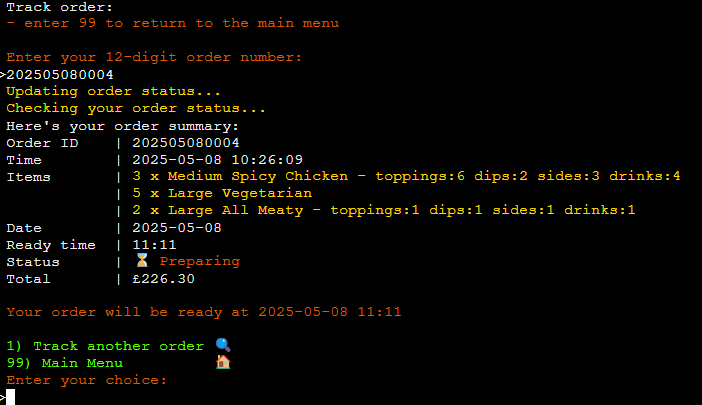
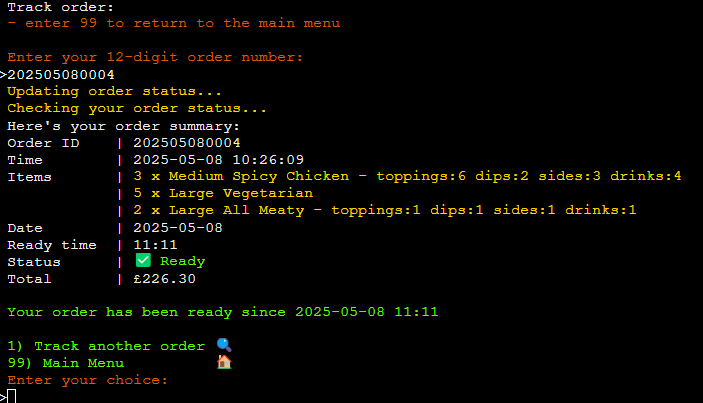
Add track order to features

diff --git a/README.md b/README.md
@@ -22,7 +22,7 @@ PizzaPalace is a command-line_interface (CLI) application for ordering pizza mea
 ## Features 
 
 ### Existing Features
-- **Main menu**
+- **Main menu - **
   <figure>
     <img src="docs/app-screenshots/app-main-menu-order.png" >
     <br>
@@ -178,9 +178,26 @@ PizzaPalace is a command-line_interface (CLI) application for ordering pizza mea
     <figcaption><strong><em>Order Summary - Submit</em></strong></figcaption>
   </figure>
 
-  - **Meal display** - complete order summary is shown including any extra items selected and their quantities for each meal.
+  - **Order summary** - complete order summary is displayed after submission with order number and ready time.
   - **Press Enter** - to return to Main Menue.
 
+- **Main Menu - Track Order**
+  <figure>
+    <img src="docs/app-screenshots/app-main-menu-track.png" >
+    <br>
+    Option 2 selected ie. Track an order
+    <br>
+    <img src="docs/app-screenshots/app-track-valid-order.png" >
+    <br>
+    Valid order output
+    <br>
+    <figcaption><strong><em>Main Menu - Track Order</em></strong></figcaption>
+    *Note: bottom image shows ouput from a valid order number.
+  </figure>
+
+  - **Order Status** - complete order summary is shown including the status of the order; could either be 'Ready' or 'Preparing'.
+  - **1) Track another order** - to track another order; app return to track order and prompts user to enter new order number.
+  - **Limits:** input must be 12-digit number or enter 99 to return to 'Main Menu'
 
 ### Features Left to Implement
 
